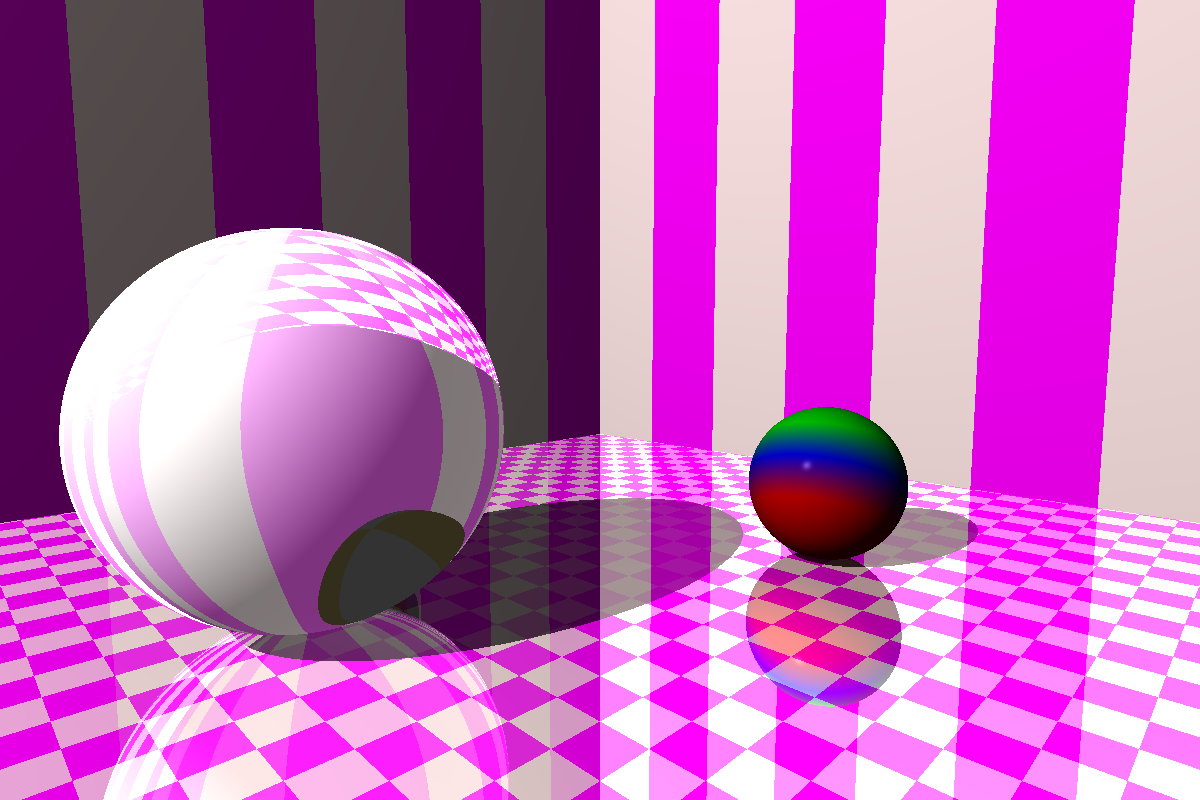
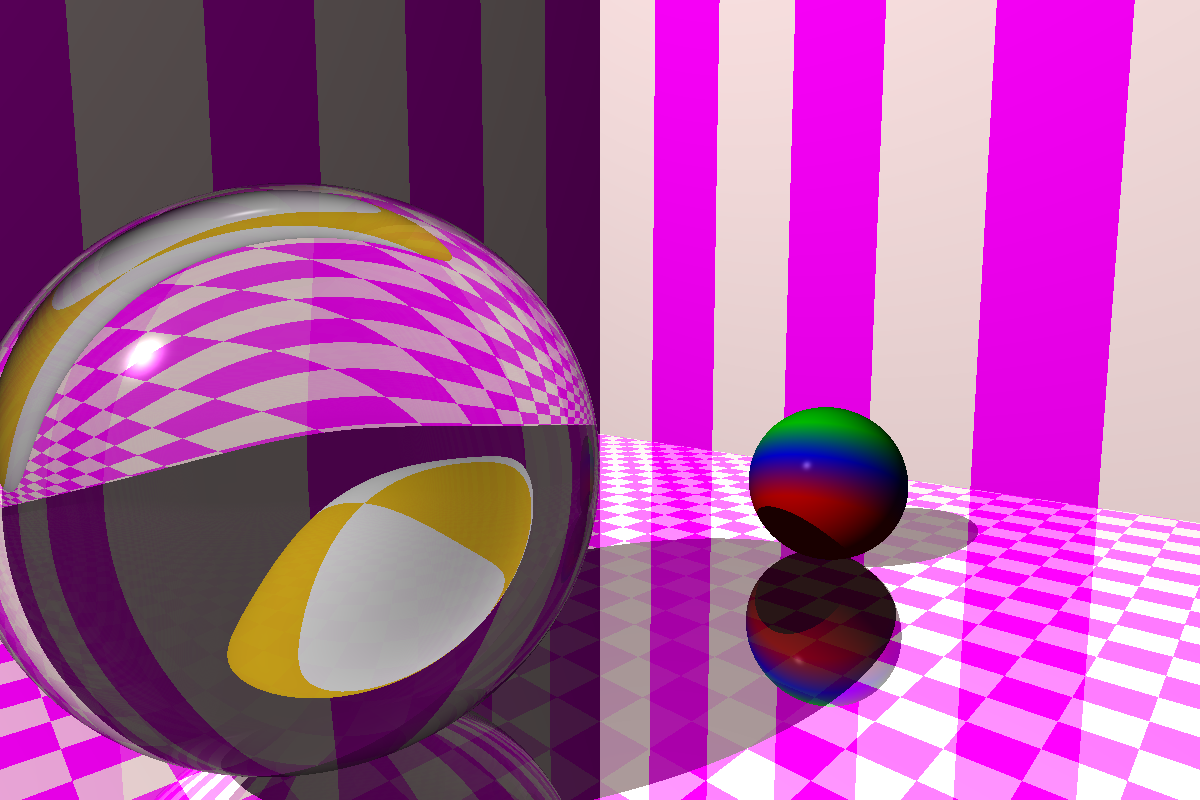
Chapter 11. Reflections and Refractions - refraction - very dark - due to shadows probably

diff --git a/ray_tracer/src/lighting/refraction_lighting.rs b/ray_tracer/src/lighting/refraction_lighting.rs
@@ -110,7 +110,8 @@ mod refraction_lighting_tests {
         a.material.ambient = 1.;
         a.material.pattern = Pattern::Test;
         let b = world.shapes.get_mut(1).unwrap();
-        b.material = Material::glass();
+        b.material.transparency = 1.;
+        b.material.refractive_index = 1.5;
         let ray = ray!((0., 0., 0.1), (0., 1., 0.));
         let a = world.shapes.get(0).unwrap();
         let b = world.shapes.get(1).unwrap();
@@ -118,14 +119,15 @@ mod refraction_lighting_tests {
             Intersection::new(-0.9899, a),
             Intersection::new(-0.4899, b),
             Intersection::new(0.4899, b),
-            Intersection::new(0.4899, a),
+            Intersection::new(0.9899, a),
         ]);
         let (hit, refraction) = intersections.hit().unwrap();
 
         let pre_calculations =
             hit.to_pre_calculation(RayGeneration::new_ray_with_generation(ray, 1));
         assert_eq!(
-            color!(0, 0.98885316, 0.047637947),
+            // TODO, not quite what book has (0, 0.99888, 0.04725)
+            color!(0, 0.9887494, 0.04974536),
             world.refracted_color(&pre_calculations, refraction)
         );
     }
@@ -150,6 +152,30 @@ mod refraction_lighting_tests {
             (0., -2.0_f32.sqrt() / 2., 2.0_f32.sqrt() / 2.)
         ));
         assert_eq!(color!(0.9361184, 0.6861184, 0.6861184), c);
+    }
+
+    #[test]
+    fn shade_with_a_reflective_and_transparent_material() {
+        let mut world = World::default();
+        world.set_light(PointLight::new(point!(-10, 10, -10), color!(1.0, 1.0, 1.0)));
+
+        let mut floor = Shape::new_plane_transformed(Matrix4x4::translation(0., -1., 0.));
+        floor.material.reflectivity = 0.5;
+        floor.material.transparency = 0.5;
+        floor.material.refractive_index = 1.5;
+        world.add(floor);
+
+        let mut ball = Shape::new_sphere_transformed(Matrix4x4::translation(0., -3.5, -0.5));
+        ball.material.pattern = Pattern::Solid(*RED);
+        ball.material.ambient = 0.5;
+        world.add(ball);
+
+        let c = world.color_at(ray_first_gen!(
+            (0., 0., -3.),
+            (0., -2.0_f32.sqrt() / 2., 2.0_f32.sqrt() / 2.)
+        ));
+        // TODO, not quite what book has (0.93642, 0.68642, 0.68642)
+        assert_eq!(color!(0.9256011, 0.6861184, 0.6861184), c);
     }
 }
 
@@ -187,11 +213,24 @@ mod schlick_tests {
         let (hit, refractions) = intersections.hit().unwrap();
         let ray = ray_first_gen!(Point::origin(), (0., 1., 0.));
         let reflectance = schlick(&hit.to_pre_calculation(ray), &refractions);
-        assert_eq!(0.04257999, reflectance);
+        assert_eq!(0.040000003, reflectance);
+    }
+
+    #[test]
+    fn the_schlick_approximation_with_small_angle_and_n1_gt_n1() {
+        let mut sphere = Shape::new_sphere();
+        sphere.material = Material::glass();
+        let intersections = Intersections::new(vec![
+            Intersection::new(1.8589, &sphere),
+        ]);
+        let (hit, refractions) = intersections.hit().unwrap();
+        let ray = ray_first_gen!((0.,0.99,-2.), (0., 0., 1.));
+        let reflectance = schlick(&hit.to_pre_calculation(ray), &refractions);
+        assert_eq!(0.4887307, reflectance);
     }
 }
 
-fn schlick(
+pub fn schlick(
     pre_calculations: &PreCalculations,
     refraction_medium_indexes: &RefractionMediumIndexes,
 ) -> f32 {

diff --git a/ray_tracer/src/world/shading.rs b/ray_tracer/src/world/shading.rs
@@ -1,6 +1,7 @@
 use crate::intersection::Intersect;
 use crate::lighting::PointLight;
 use crate::lighting::pre_calculations::PreCalculations;
+use crate::lighting::refraction_lighting::schlick;
 use crate::material::Material;
 use crate::material::pattern::Pattern;
 use crate::material::refraction::RefractionMediumIndexes;
@@ -24,11 +25,12 @@ impl World {
     ) -> Color {
         let mut result = color!(0, 0, 0, 0);
         let direct_lights = self.direct_lights(pre_calculations.over_point);
+        let material = &pre_calculations.shape.material;
         for light in &self.lights {
             // TODO, multilight support would light each in turn if they were direct.
             let shadow_factor = if direct_lights.is_empty() { 1. } else { 0. };
             result = result
-                + pre_calculations.shape.material.light(
+                + material.light(
                     light,
                     &pre_calculations.shape.transform,
                     pre_calculations.over_point,
@@ -38,8 +40,16 @@ impl World {
                 )
         }
         if pre_calculations.ray_generation < self.max_ray_generation {
-            result = result + self.refracted_color(&pre_calculations, refraction_medium_indexes);
-            result = result + self.reflection_color(pre_calculations);
+            let (reflect, refract) = if material.reflectivity > 0. && material.transparency > 0. {
+                let reflectance = schlick(&pre_calculations, &refraction_medium_indexes);
+                (reflectance, 1. - reflectance)
+            } else {
+                (1., 1.)
+            };
+
+            result = result
+                + self.refracted_color(&pre_calculations, refraction_medium_indexes) * refract;
+            result = result + self.reflection_color(pre_calculations) * reflect;
         }
         result.clamp_alpha();
         result

diff --git a/demo/src/test_scenes/glass_sphere_with_air.rs b/demo/src/test_scenes/glass_sphere_with_air.rs
@@ -1,0 +1,47 @@
+use crate::test_scenes::TestScene;
+use math::tuple::color::{BLACK, WHITE};
+use math::tuple::point::Point;
+use math::{degrees, point, vector};
+use math::matrix::matrix_4x4::Matrix4x4;
+use ray_tracer::camera::Camera;
+use ray_tracer::canvas::Size;
+use ray_tracer::lighting::PointLight;
+use ray_tracer::material::Material;
+use ray_tracer::material::pattern::Pattern;
+use ray_tracer::primatives::Shape;
+use ray_tracer::transform::Transform;
+use ray_tracer::view_matrix::ViewMatrix;
+use ray_tracer::world::World;
+
+pub struct GlassSphereWithAir {}
+
+impl TestScene for GlassSphereWithAir {
+    fn build_world() -> World {
+        let mut world = World::default();
+        world.add_light(PointLight::new(point!(-30, 50, 10), *WHITE));
+        let mut plane = Shape::new_plane();
+        plane.material.pattern = Pattern::Checker(*BLACK, *WHITE, Transform::identity());
+        world.add(plane);
+
+        let mut sphere = Shape::new_sphere_transformed(Matrix4x4::scale_all(5.)
+            .pre_translation(0.,1.,0.));
+        sphere.material = Material::glass();
+        sphere.material.shadow_boost = 0.;
+        world.add(sphere);
+
+        let mut bubble = Shape::new_sphere_transformed(Matrix4x4::scale_all(2.)
+            .pre_translation(0.,1.,0.));
+        bubble.material = Material::air();
+        // world.add(bubble);
+
+        world
+    }
+
+    fn build_camera(size: Size) -> Camera {
+        let mut camera = Camera::new(size, degrees!(20));
+        camera.set_transform(
+            *ViewMatrix::new_look_at(point!(0, 40, 0), Point::origin(), vector!(0, 0, 1)),
+        );
+        camera
+    }
+}

diff --git a/demo/src/test_scenes/mod.rs b/demo/src/test_scenes/mod.rs
@@ -1,0 +1,53 @@
+pub mod glass_sphere_with_air;
+
+use crate::chapter7_scene::ray_trace_end_chapter_7_scene;
+use crate::fill_all_with_gradient;
+use crate::png_write::PngWrite;
+use crate::threaded_canvas::ThreadedCanvas;
+use ray_tracer::camera::Camera;
+use ray_tracer::canvas::{Size, ViewPort};
+use ray_tracer::world::World;
+use ray_tracer::world::render_world::RenderWorld;
+use std::fmt::Display;
+use std::ops::DerefMut;
+use std::path::Path;
+use std::time::Instant;
+
+pub trait TestScene {
+    fn build_world() -> World;
+
+    fn build_camera(size: Size)->Camera;
+}
+
+pub trait RenderTestScene<T> {
+    fn render_scene<Q>(size: Size, name: Q)
+    where
+        Q: AsRef<Path> + Display;
+}
+
+impl<T:TestScene> RenderTestScene<T> for T {
+    fn render_scene<Q>(size: Size, name: Q)
+    where
+        Q: AsRef<Path> + Display,
+    {
+        const BLOCK_SIZE: u32 = 32;
+        let mut canvas = ThreadedCanvas::new(size, BLOCK_SIZE);
+        fill_all_with_gradient(canvas.deref_mut());
+        let world = T::build_world();
+        let camera = T::build_camera(size);
+
+        let now = Instant::now();
+        canvas.render(&world, &camera);
+        let duration = now.elapsed();
+        let pixels = canvas.size().width() * canvas.size().height();
+        println!(
+            "Ray trace, block size {} took: {} ms {} px/sec",
+            BLOCK_SIZE,
+            duration.as_millis(),
+            pixels as f32 / duration.as_secs_f32()
+        );
+        canvas.save_png(name.as_ref());
+        println!("Saved image to {}", name);
+    }
+
+}

diff --git a/ray_tracer/src/material/glass.rs b/ray_tracer/src/material/glass.rs
@@ -1,11 +1,32 @@
+use math::color;
 use crate::material::Material;
+use crate::material::pattern::Pattern;
 
 impl Material {
     pub fn glass() -> Self {
         let mut glass = Self::default();
+        glass.pattern = Pattern::Solid(color!(0.1,0.1,0.1));
         glass.transparency = 1.;
-        glass.refractive_index = 1.52;
+        glass.refractive_index = 1.5;
+        glass.ambient = 0.05;
+        glass.diffuse = 0.1;
+        glass.reflectivity = 0.5;
+        glass.specular = 1.;
+        glass.shininess = 300.;
         glass
+    }
+
+    pub fn air() -> Self {
+        let mut air = Self::default();
+        air.pattern = Pattern::Solid(color!(0.1,0.1,0.1));
+        air.transparency = 1.;
+        air.refractive_index = 1.;
+        air.ambient = 0.;
+        air.diffuse = 0.;
+        air.reflectivity = 0.;
+        air.specular = 0.;
+        air.shininess = 0.;
+        air
     }
 }
 
@@ -17,7 +38,7 @@ mod glass_tests {
     fn glass_properties() {
         let glass = Material::glass();
         assert_eq!(1., glass.transparency);
-        assert_eq!(1.52, glass.refractive_index);
+        assert_eq!(1.5, glass.refractive_index);
     }
 }
 

diff --git a/demo/src/main.rs b/demo/src/main.rs
@@ -6,15 +6,21 @@ use ray_tracer::canvas::{Canvas, Size, ViewPort};
 use ray_tracer::material::Material;
 use std::ops::DerefMut;
 use std::time::Instant;
+use crate::test_scenes::glass_sphere_with_air::GlassSphereWithAir;
+use crate::test_scenes::RenderTestScene;
 
 mod chapter7_scene;
 mod image_buffer_canvas;
 mod png_write;
 mod threaded_canvas;
+mod test_scenes;
 
 fn main() {
-    let size_multiplier = 2;
-    render(Size::new(600 * size_multiplier, 400 * size_multiplier), 32);
+    let size_multiplier = 1;
+    let size = Size::new(600 * size_multiplier, 400 * size_multiplier);
+    //render(Size::new(600 * size_multiplier, 400 * size_multiplier), 32);
+    GlassSphereWithAir::render_scene(size, "glass_sphere_with_air.png");
+
 }
 
 fn render(size: Size, block_size: u32) {

diff --git a/demo/src/chapter7_scene.rs b/demo/src/chapter7_scene.rs
@@ -60,7 +60,7 @@ fn wall(y: Angle) -> Shape {
 }
 
 fn green_sphere() -> Shape {
-    let mut sphere = Shape::new_sphere_transformed(Matrix4x4::translation(-1.5, 1., -1.5));
+    let mut sphere = Shape::new_sphere_transformed(Matrix4x4::translation(-1., 1., -2.5));
     // let mut material = Material::default();
     // material.reflectivity = 0.9;
     // material.diffuse = 0.0;

diff --git a/ray_tracer/src/lighting/mod.rs b/ray_tracer/src/lighting/mod.rs
@@ -1,5 +1,5 @@
 pub mod pre_calculations;
-mod refraction_lighting;
+pub mod refraction_lighting;
 
 use crate::material::Material;
 use crate::transform::Transform;
